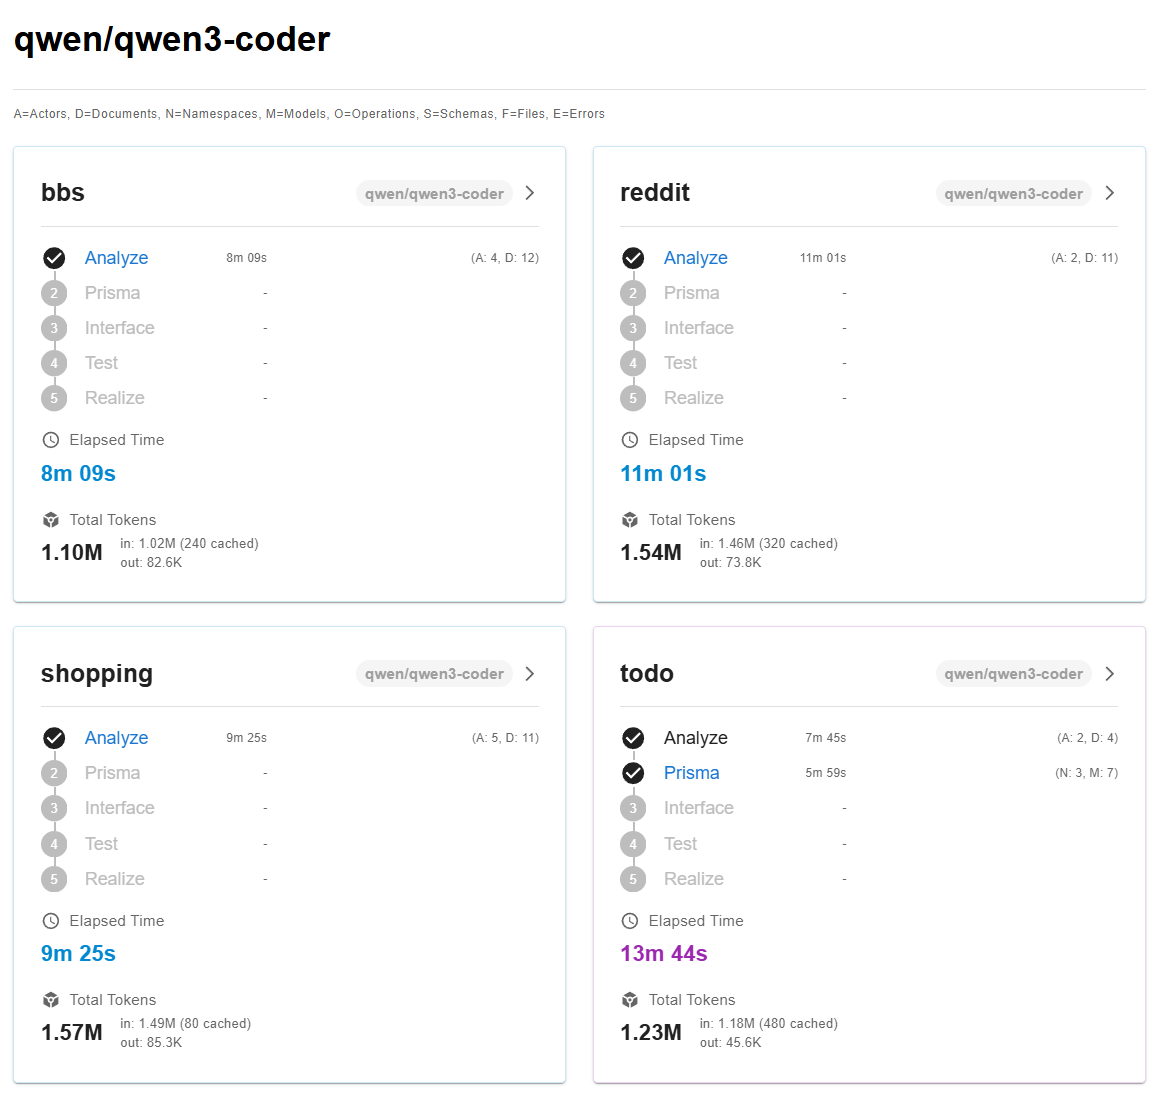
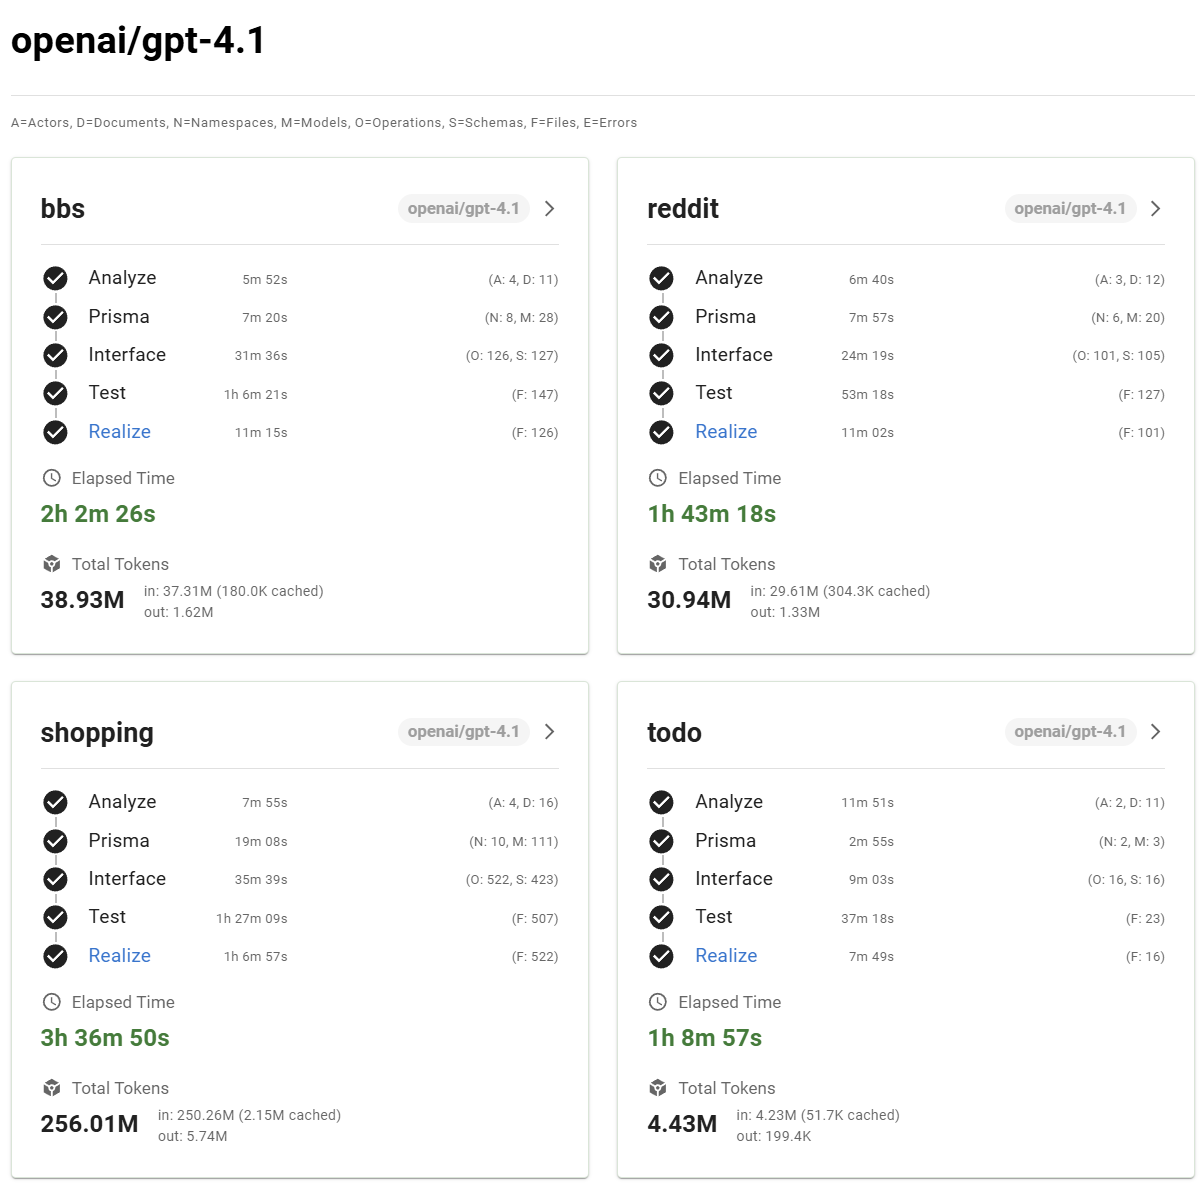
Fix everything

diff --git a/README.md b/README.md
@@ -29,6 +29,8 @@ https://github.com/user-attachments/assets/b995dd2a-23bd-43c9-96cb-96d5c805f19f
    - E2E Test Functions: [`test/features/api`](https://github.com/wrtnlabs/autobe-example-shopping/tree/main/test/features/api)
    - API Implementations: [`src/providers`](https://github.com/wrtnlabs/autobe-example-shopping/tree/main/src/providers)
 
+![Compilation Success Dashboard](https://autobe.dev/images/demonstrate/replay-openai-gpt4.1.png)
+
 ## How AutoBE Works
 
 ```mermaid
@@ -57,7 +59,7 @@ Each waterfall stage includes AI-friendly compilers that guarantee type safety o
 
 This approach is designed to ensure that the final generated TypeScript and Prisma code is 100% buildable. Based on our testing with multiple example projects including e-commerce platforms, discussion boards, and task management systems, AutoBE maintains this compilation guarantee across diverse application types.
 
-Here are the waterfall phase outputs from another AutoBE example - "Economic/Political Discussion Board":
+To illustrate this process, here are the phase outputs from our "Economic/Political Discussion Board" example:
 
 1. **Requirements Analysis**: [Report](https://github.com/wrtnlabs/autobe-example-bbs/tree/main/docs/analysis)
 2. **Database Design**: [Entity Relationship Diagram](https://github.com/wrtnlabs/autobe-example-bbs/tree/main/docs/ERD.md) / [Prisma Schema](https://github.com/wrtnlabs/autobe-example-bbs/tree/main/prisma/schema)
@@ -147,4 +149,4 @@ AutoBE and all backend applications generated by AutoBE are licensed under the [
 
 Additionally, any client applications that interact with AutoBE-generated backend servers are also subject to AGPL-3.0 licensing requirements due to the copyleft nature of the license.
 
-For those who wish to avoid open source disclosure obligations, commercial licenses are available for purchase (coming soon).
+For those who wish to avoid open source disclosure obligations, commercial licenses are available for purchase, (coming soon).
